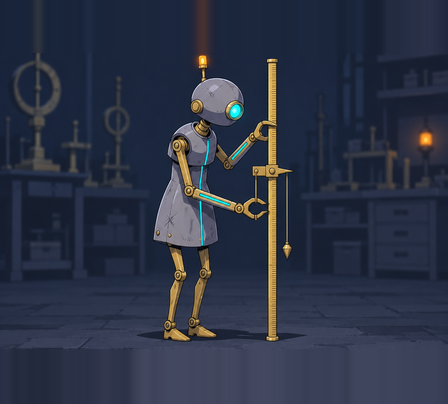
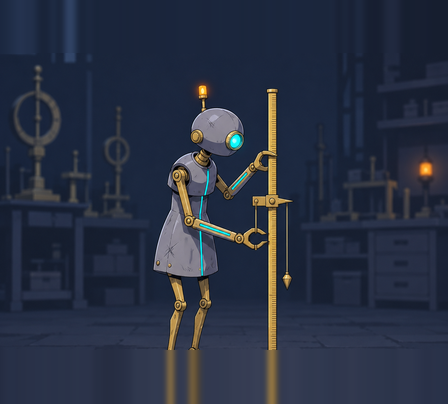
R760c：9260 / 9262 也换保头裁（三张头顶留白统一到 7~8%）
店长看过 _R760_保头对比.png 下排后确认三张全换。

- 9260：标尺顶端在 raw 220，居中裁只余 8 行 → 标尺顶帽被切断；
  改后头顶留白 21 行 / 267（7.9%），代价是脚被裁到脚踝以上。
- 9262：卡堆顶在 raw 192，居中裁被切 20 行；改后留白 19 行（7.1%），
  代价是膝盖以下出血（多裁 112 行）。
- 9261 不动（上一提交已改好，留白 19 行）。
- 新增 _R760_可见带_定稿.png：三张的**实机可见带**并排，验收看这张，
  不再拿 448x404 整图看（整图会裁掉头尾各 15 行以上的内容）。

diff --git a/art_src/2026-11-15_计量工坊卡图_R760/README.md b/art_src/2026-11-15_计量工坊卡图_R760/README.md
@@ -75,21 +75,29 @@ v2 三张全部合规，定稿取 v2。
 - 结果：9261 号筒顶端在可见带内留白 **19 行 / 267（7.1%）**，喇叭口完整。
 - 代价：底部多裁 92 行 raw，底座下沿出血。这是有意的取舍 ——「宁可裁脚，不裁头」。
 
-### 另外两张（**没动**，等店长定）
+### 9260 / 9262 也换成了保头裁（店长确认）
 
-| id | 主体最高行(raw) | 居中裁(top=212) | 情况 |
+| id | 主体最高行(raw) | 原居中裁 | 保头裁后头顶留白 |
 |---|---|---|---|
-| 9260 | 220 | 220 − 212 = 8 行余量 | 标尺顶端**被切断**（顶帽看不见），余量 8 行=擦着过 |
-| 9262 | 192 | 被裁 20 行 | **卡堆顶上几张白卡被切** |
+| 9260 常数测量员 | 220 | 余量 +8 行，**标尺顶帽被切断** | 21 行 / 267（7.9%） |
+| 9261 精密计算者 | 212 | **被裁 43 行，喇叭口没了** | 19 行 / 267（7.1%） |
+| 9262 负载增量员 | 192 | **被裁 20 行，卡堆顶被切** | 19 行 / 267（7.1%） |
 
-两行都算了保头版（见 `_R760_保头对比.png` 下排）：
-9260 保头后标尺完整、脚被裁到脚踝；9262 保头后卡堆完整、膝盖以下出血。
-**要不要换，店长定。** 换的话：
+店长看过 `_R760_保头对比.png` 下排后确认**三张全换**。重跑：
 
 ```
-python _finish.py --head-safe 9260
-python _finish.py --head-safe 9262
+python _finish.py --head-safe          # 不带 id = 三张全做，并出三张验收页
+python _finish.py --head-safe 9261     # 只做一张
 ```
+
+各自付出的代价（都是有意取舍，不是失误）：
+
+- 9260：脚被裁到脚踝以上 → 换来标尺顶端完整
+- 9261：底座下沿出血（多裁 92 行）→ 换来喇叭口完整
+- 9262：膝盖以下出血（多裁 112 行）→ 换来卡堆顶完整
+
+`_R760_可见带_定稿.png` = 三张的**实机可见带**并排，验收就该看这张。
+`_R760_保头对比.png` 留作历史对照（上排居中裁 / 下排保头裁）。
 
 ### ⚠ 结论性教训
 
